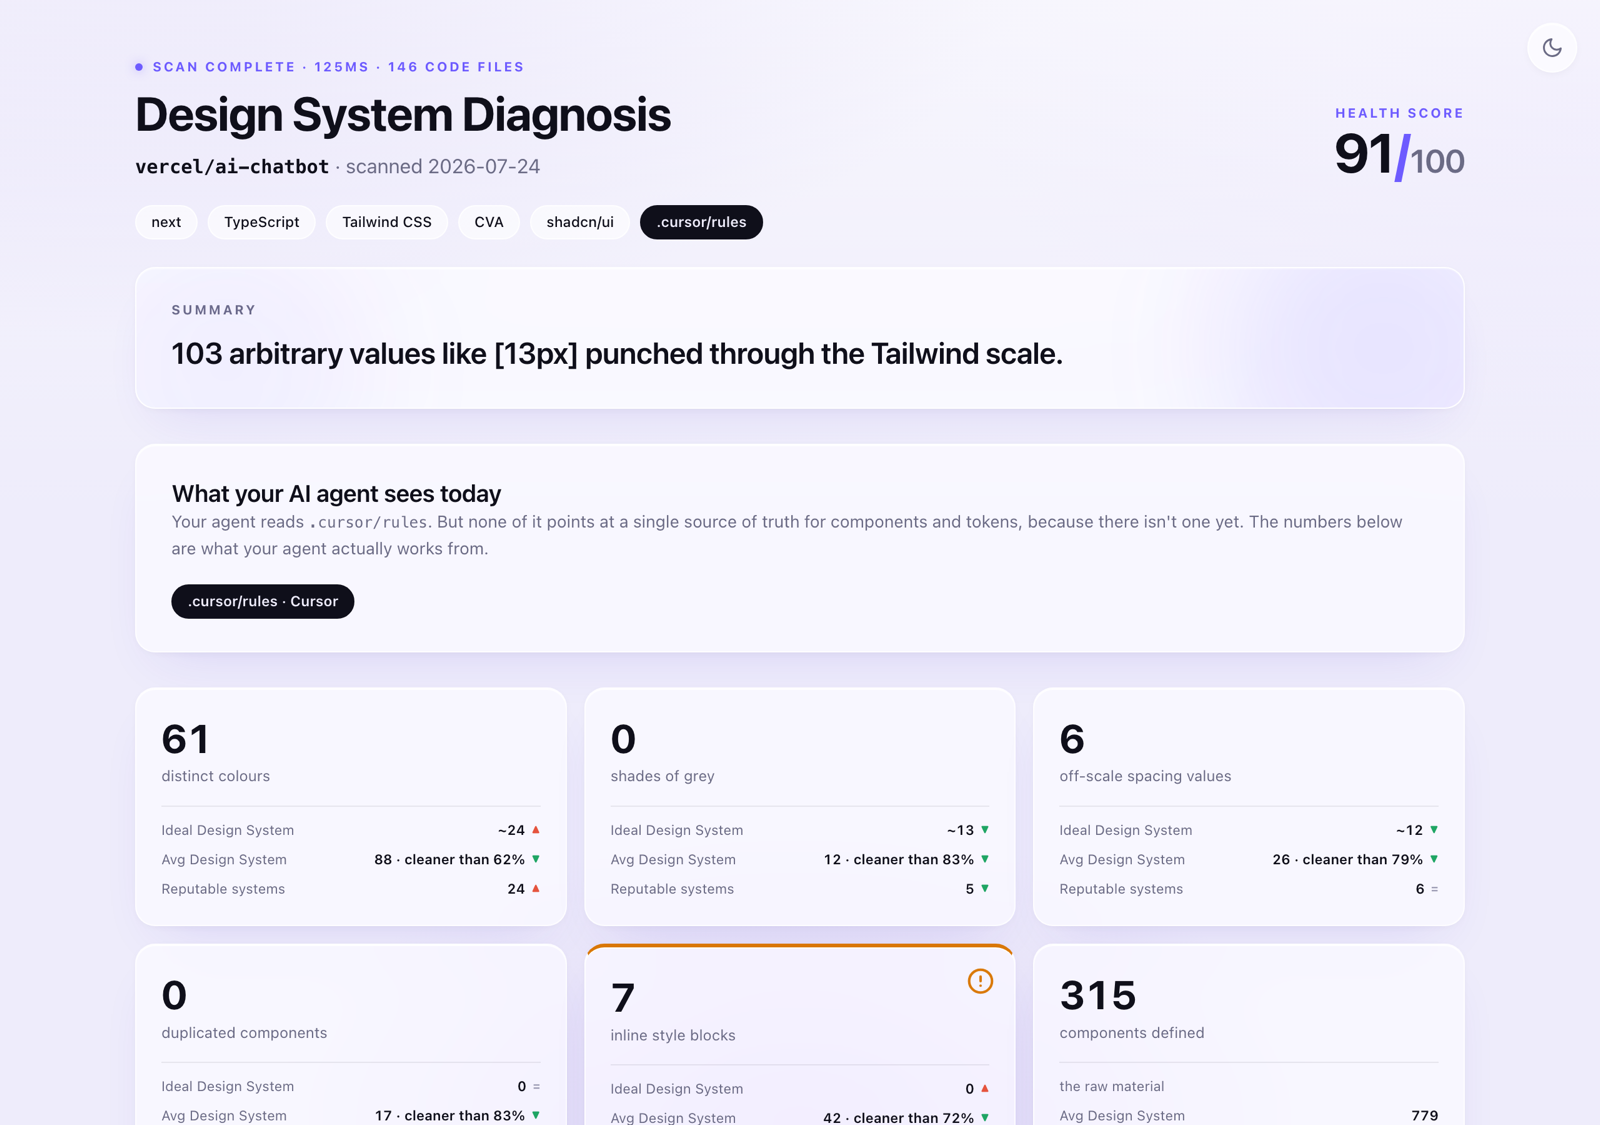
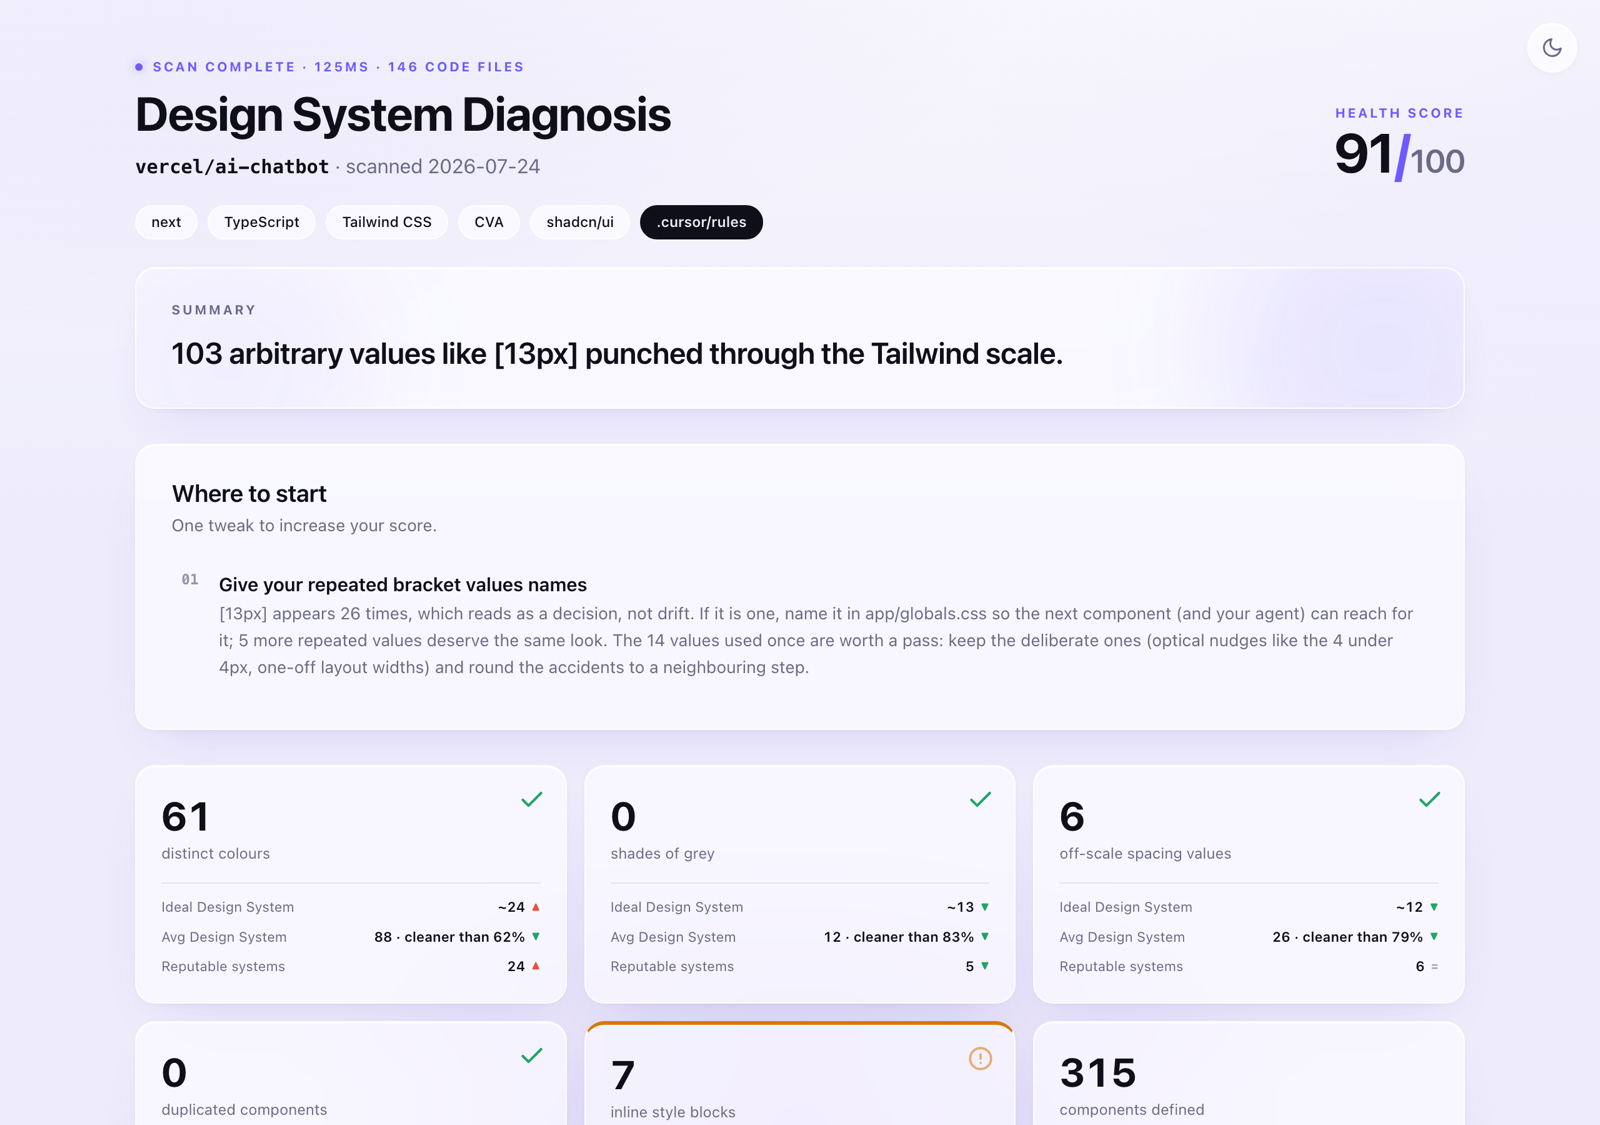
README: fresh v3.2 screenshots, live example links without stale numbers

diff --git a/README.md b/README.md
@@ -79,9 +79,9 @@ You get the roast in chat plus `design-system-roast.html` at your repo root: a s
 
 Three real roasts of public repos, hosted as-is (the same self-contained HTML the skill generates):
 
-- **[excalidraw/excalidraw](https://pencilrebel.github.io/roast-my-design-system/examples/excalidraw-excalidraw.html)** — 237 colours, 49 greys, 3 typefaces declared 9 different ways
-- **[dubinc/dub](https://pencilrebel.github.io/roast-my-design-system/examples/dubinc-dub.html)** — 138 colours and 86 spacing values across a monorepo
-- **[vercel/ai-chatbot](https://pencilrebel.github.io/roast-my-design-system/examples/vercel-ai-chatbot.html)** — a small starter with 61 colours and 69 inline style blocks
+- **[excalidraw/excalidraw](https://pencilrebel.github.io/roast-my-design-system/examples/excalidraw-excalidraw.html)**
+- **[dubinc/dub](https://pencilrebel.github.io/roast-my-design-system/examples/dubinc-dub.html)**
+- **[vercel/ai-chatbot](https://pencilrebel.github.io/roast-my-design-system/examples/vercel-ai-chatbot.html)**
 
 ## What it measures
 
